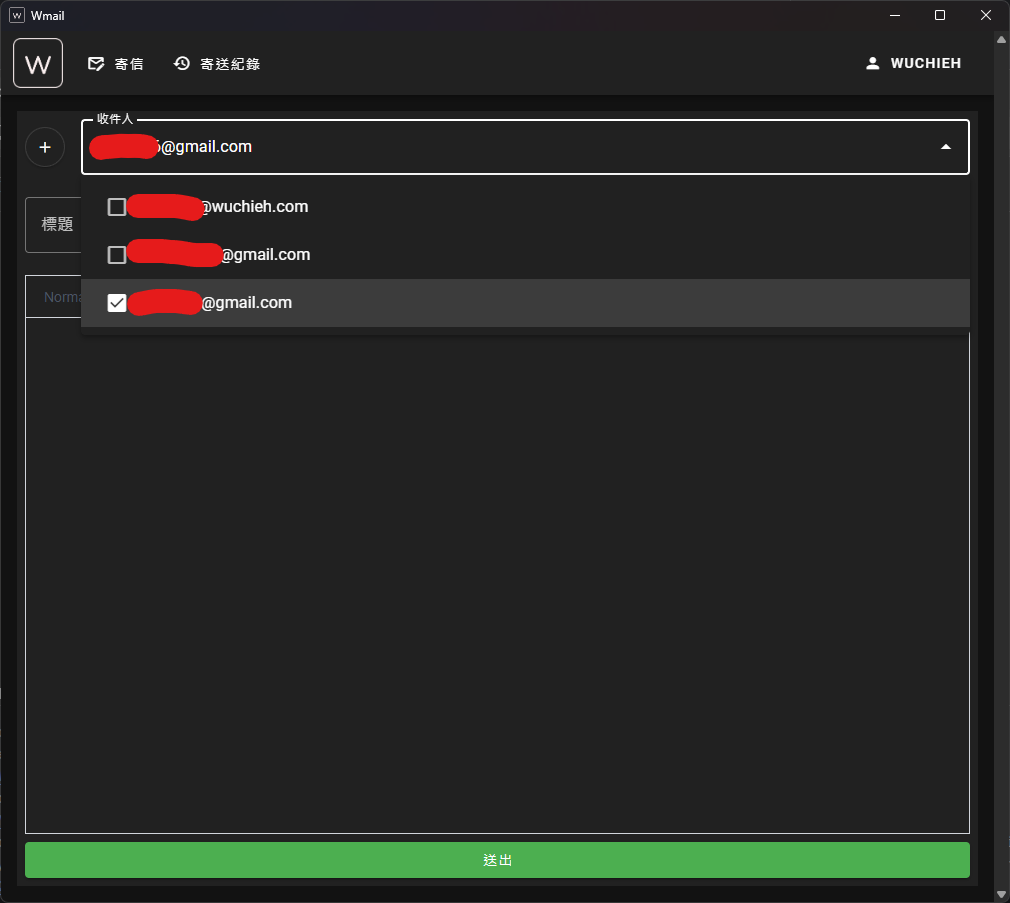
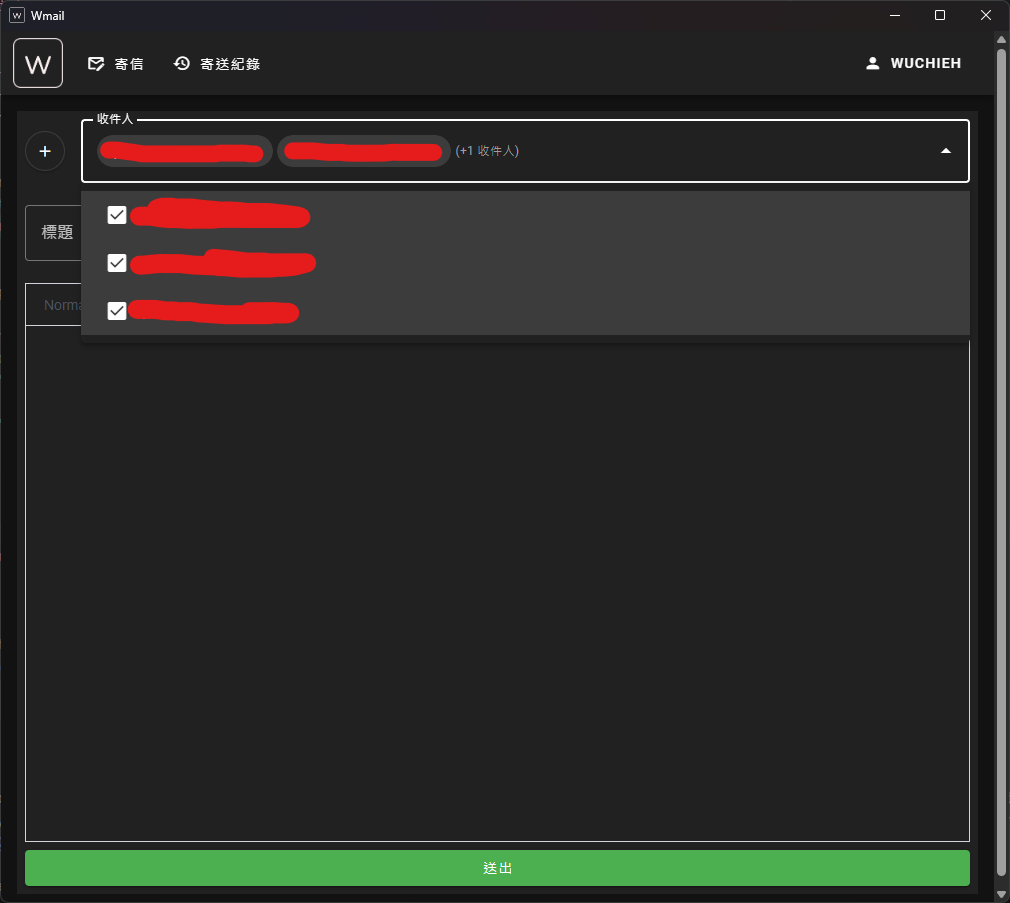
修改圖片 優化選擇收件人

Changed region(s): [[0.0307, 0.031, 1.0, 0.9922], [0.0307, 0.9302, 0.9515, 0.9922]]

diff --git a/frontend/src/components/SendMail.vue b/frontend/src/components/SendMail.vue
@@ -8,6 +8,16 @@
           :items="recipients"
           multiple
         >
+          <template v-slot:selection="{ item, index }">
+            <v-chip v-if="index < 2">
+              <span>{{ item.title }}</span>
+            </v-chip>
+            <span
+              v-if="index === 2"
+              class="text-grey text-caption align-self-center">
+              (+{{ formData.to.length - 2 }} 收件人)
+            </span>
+          </template>
           <template #prepend>
             <v-btn
               size="small"

diff --git a/README.md b/README.md
@@ -39,11 +39,19 @@ npx cap open android
 修改完成後就可以使用 Android Studio 打包應用成 apk 了
 ```
 # 展示
+## 登入
 ![login_page.png](images/login_page.png)
+## 寄信
 ![send_mail.png](images/send_mail.png)
+## 新增收件人
 ![add_recipient.png](images/add_recipient.png)
+## 選擇收件人
 ![set_recipient.png](images/set_recipient.png)
+## 查看寄送紀錄
 ![mail_records.png](images/mail_records.png)
+## 查看寄送紀錄詳情
 ![mail_records_info.png](images/mail_records_info.png)
+## 自訂一組建樣式
 ![custom_style.png](images/custom_style.png)
+## 亮色主題
 ![light_theme.png](images/light_theme.png)
